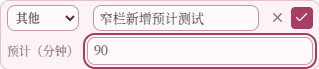
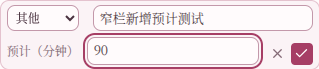
fix(tasks)：将新增操作移到预计旁并扩展事项输入

Changed region(s): [[0.79, 0.058, 1.0, 1.0], [0.0282, 0.1739, 0.1411, 0.3478]]

diff --git a/src/features/tasks/task-estimates.css b/src/features/tasks/task-estimates.css
@@ -38,6 +38,7 @@
 }
 .quick-task-create-row .quick-create-actions {
   grid-area: actions;
+  align-self: end;
 }
 .quick-task-create-row .quick-create-check-cell {
   display: none;
@@ -46,12 +47,12 @@
   grid-column: 1 / -1;
 }
 @media (min-width: 761px) {
-  /* 新增表单没有完成框；预计必须跨整行，不能自动落入旧列表的 24px 列。 */
+  /* 第一行把操作列让给标题；预计与取消/保存在下一行，避免占用标题宽度。 */
   .quick-task-row-adding.quick-task-create-row {
     grid-template-columns: minmax(64px, 80px) minmax(0, 1fr) auto;
     grid-template-areas:
-      'project title actions'
-      'planned planned planned';
+      'project title title'
+      'planned planned actions';
     gap: 6px;
   }
   .quick-task-create-row > .estimate-field label {
@@ -83,9 +84,9 @@
 @media (max-width: 760px) {
   .quick-task-row-adding.quick-task-create-row {
     grid-template-areas:
-      'project actions'
+      'project project'
       'title title'
-      'planned planned';
+      'planned actions';
   }
 }
 @media (prefers-reduced-motion: reduce) {

diff --git a/e2e/ui-task-period.spec.ts b/e2e/ui-task-period.spec.ts
@@ -104,8 +104,18 @@ test('waiting creation gives estimates usable width in narrow columns', async ({
       }, width);
     const field = await estimate.boundingBox();
     const label = await form.locator('.estimate-field label > span').boundingBox();
-    expect(field!.width).toBeGreaterThanOrEqual(100);
+    expect(field!.width).toBeGreaterThanOrEqual(desktop ? 64 : 100);
     expect(label!.height).toBeLessThan(30);
+    const actions = await form.locator('.quick-create-actions').boundingBox();
+    const titleBox = await title.boundingBox();
+    expect(actions!.x).toBeGreaterThanOrEqual(field!.x + field!.width);
+    expect(actions!.y).toBeGreaterThanOrEqual(titleBox!.y + titleBox!.height);
+    expect(
+      Math.abs(actions!.y + actions!.height - field!.y - field!.height),
+    ).toBeLessThan(2);
+    expect(
+      Math.abs(titleBox!.x + titleBox!.width - actions!.x - actions!.width),
+    ).toBeLessThan(2);
     if (desktop) {
       expect(
         Math.abs(label!.y + label!.height / 2 - field!.y - field!.height / 2),

diff --git a/README.md b/README.md
@@ -147,7 +147,7 @@ docs/                    PRD、目标、工程协作规范、桌面交互与 PR 
 - 洞察与 PDF 共用纯函数 analytics 口径；规划按普通任务当前安排日期聚合，不包含 Daily；旧收尾数据只能作为项目级 aggregate，绝不反推任务级历史。详细规则见 [工作台信息架构与分析口径](docs/workspace-information-architecture.md)。
 - 首页 Daily 沿用项目页的父级与浅底内嵌清单样式：子项常显，预计分钟位于名称下方，实际分钟在右侧独立列编辑，空输入提示“填写”，填写后父级显示合计。移除“记录／已记录”和“今日结果”操作；输入失焦、勾选自动保存，失败保留草稿并可重试；“结束今天”先等待全部 Daily 最新输入保存成功，再打开收尾并生成正式历史；校验或保存失败会阻止收尾。完成任一子项也算当天完成；取消父级清除当天全部勾选，但保留耗时和已有结果。无子项时直接填写父级实际，旧父级额外耗时保留并计入合计。
 - 手机日程使用分组内连续的紧凑双行布局，将项目放在任务名称前、同排展示，第二排显示时间、预计分钟和实际分钟，两排文字间距收紧且点击区域仍至少 44px；待安排复选框与文字居中，Daily 复选框对齐标题第一行。未填写实际时显示可点击的“记耗时”；收尾入口与列表对齐。收尾对话框固定居中、内容独立滚动、操作按钮常驻；仅选“指定日期”时展示日期控件，取消不提交。
-- 开始与结束时间支持 `1420` / `14:20` 输入，不支持跨午夜。预计时长独立输入整数分钟，可不填或清空为“待定”；显示为 `45min` / `1h` / `1h30min`，修改起止时间不会覆盖预计。日程与待安排遵循相同规则。待安排新增的预计输入独占一行，窄侧栏中标签保持横排。
+- 开始与结束时间支持 `1420` / `14:20` 输入，不支持跨午夜。预计时长独立输入整数分钟，可不填或清空为“待定”；显示为 `45min` / `1h` / `1h30min`，修改起止时间不会覆盖预计。日程与待安排遵循相同规则。待安排新增的取消/保存按钮放在预计输入旁，首行宽度留给事项内容，桌面窄侧栏中预计标签保持横排。
 - **今日日程 → 待安排**支持同一任务记录的拖拽移动（不复制）；拖出会清除日期、待填时间和起止时间，保留预计时长；安排、移期、完成与收尾也保留预计，不移动已有实际投入的日期归属。待安排通过 `···` 安排到今天或其他日期，安排后作为待填时间任务进入日程。
 - 洞察默认本周，先展示实际投入、普通任务完成数和主要项目；缺少预计的任务不参与估时偏差，报告沿用相同口径。设置使用紧凑分组列表，不显示日期切换器。数据迁移与验收说明见 [预计时长与生理期记录](docs/task-estimates-and-periods.md)。
 - 云端今日日程勾选立即反馈，保存期间不会被旧同步结果复原；连续操作按任务顺序保存，失败恢复已确认状态并提示重试。预计与实际字段仍保留，账本刷新失败不会撤销已保存的完成状态。

diff --git a/docs/task-estimates-and-periods.md b/docs/task-estimates-and-periods.md
@@ -8,7 +8,7 @@
 
 手机今日日程使用同一分组内连续双行，普通短标题约 88px；待安排约 52px，空组只保留标题与添加入口。手机输入至少 16px，操作保持 44px 点击区域；不限制页面缩放。桌面保留七列日程以及 Electron 共用前端。
 
-待安排新增表单为预计字段指定独立整行，避免继承任务列表的 24px 勾选列。桌面首行为项目、事项内容与操作，下一行横排预计标签与输入；手机保留项目/操作、事项内容、预计三行和触控尺寸。新增态不占用完成框位置。布局回归覆盖 260/300/360px 桌面侧栏及 390px 手机，包含预计保存。
+待安排新增表单为预计字段指定明确区域，避免继承任务列表的 24px 勾选列。桌面首行为项目与事项内容，下一行横排预计标签、输入与取消/保存按钮，把首行宽度留给事项内容；手机保留项目、事项内容、预计与操作三行和触控尺寸。新增态不占用完成框位置。布局回归覆盖 260/300/360px 桌面侧栏及 390px 手机，包含按钮与预计输入的对齐及预计保存。
 
 洞察默认本周，提供当天、本周、本月和自定义分段。首先展示实际投入、所选业务日期范围内 active 普通任务完成数/总数、主要投入项目；排除待安排、放弃和回收站任务。每日趋势提供可读取数值，项目按实际时间排序并展示占比；Daily 只进入总实际，不进入项目占比。有效估时比较只使用同时填写预计与实际的普通任务，未填写不视为零；打印报告沿用相同样本口径，实际总量和 Daily 去重仍来自 `analytics.ts`。
 

diff --git a/docs/screenshots/compact-desktop/README.md b/docs/screenshots/compact-desktop/README.md
@@ -11,7 +11,7 @@
 - `workstation-{blue,anya}-{light,dark}-serif.png`：蓝／粉、明／暗、思源宋体，保持主题与字体选择，任务行无横向溢出。
 - `login-anya.png`：正式静态预览 EXE 的欢迎页，关闭/最小化按钮在标题栏常显。原生窗口工作区中心偏差小于 4 逻辑像素。
 - `task-dialog-anya.png`：任务名、项目、并排起止时间、并排预计和实际；单一待定占位、文字取消与主题保存。
-- `waiting-create-anya.png`：待安排新增修复后的粉色宋体表单。预计横排独占第二行；260/300/360px 桌面侧栏和 390px 手机的输入宽度、标签高度及保存回归通过。
+- `waiting-create-anya.png`：待安排新增的粉色宋体表单。事项内容扩展至首行右侧，取消/保存位于第二行预计输入旁；260/300/360px 桌面侧栏和 390px 手机的输入宽度、对齐及保存回归通过。
 
 验证命令与结果：
 
